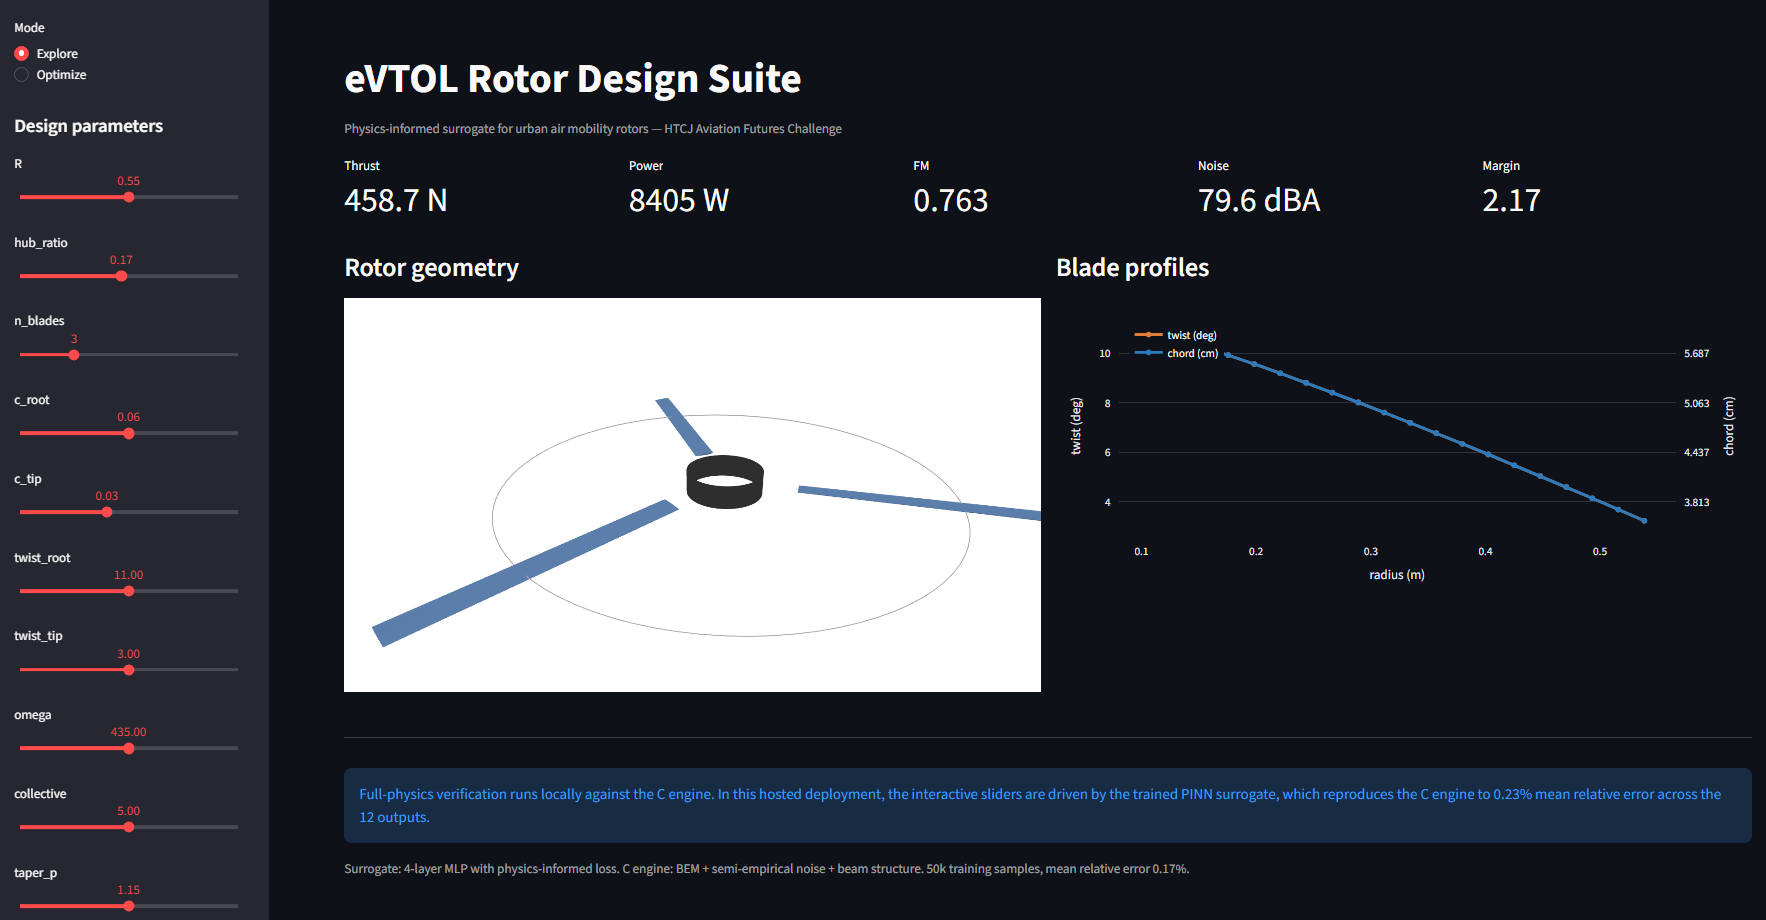
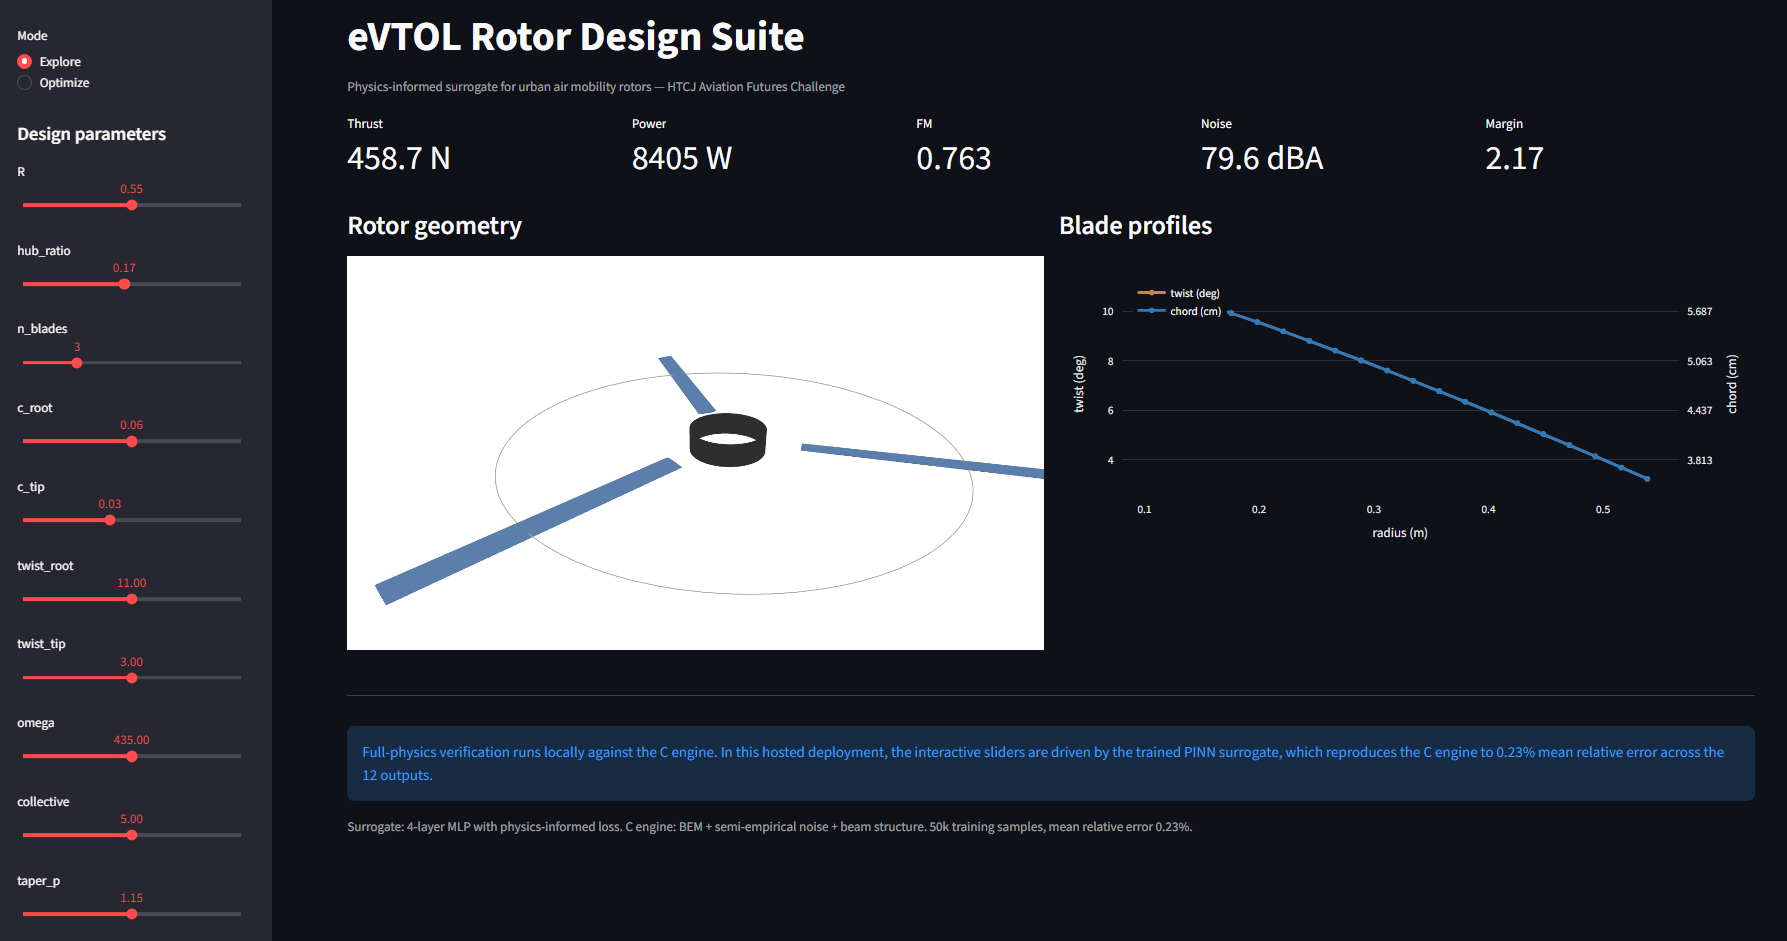
Add app screenshot; correct mean relative error to 0.23%

diff --git a/README.md b/README.md
@@ -8,7 +8,8 @@ Built for the [HTCJ Aviation Futures Challenge 2026](https://htcj-aviation-futur
 [GitHub](https://github.com/altugrakay-commits)
 
 ![Screenshot of the live app](figures/Headshot.png)
-<center>Figure 1: Screenshot of the live app</center><br>
+<center>Figure 1: Screenshot of the live app</center>
+<br>
 
 ## The problem
 
@@ -77,7 +78,8 @@ Three layers, three languages, one pipeline:
 ## Validation
 
 ![Parity](figures/parity.png)
-<center>Figure 2: PINN surrogate vs. C-Physics Engine</center><br>
+<center>Figure 2: PINN surrogate vs. C-Physics Engine</center>
+<br>
 
 - **BEM solver**: FM = 0.61 for a 1 m, 2-blade, 2865 RPM test rotor — in the physically expected range for a rotor at this solidity.
 - **Noise model**: calibrated to within 1 dB of published NASA SHAC measurements of the Pettingill ideally-twisted rotor (AIAA 2020).
